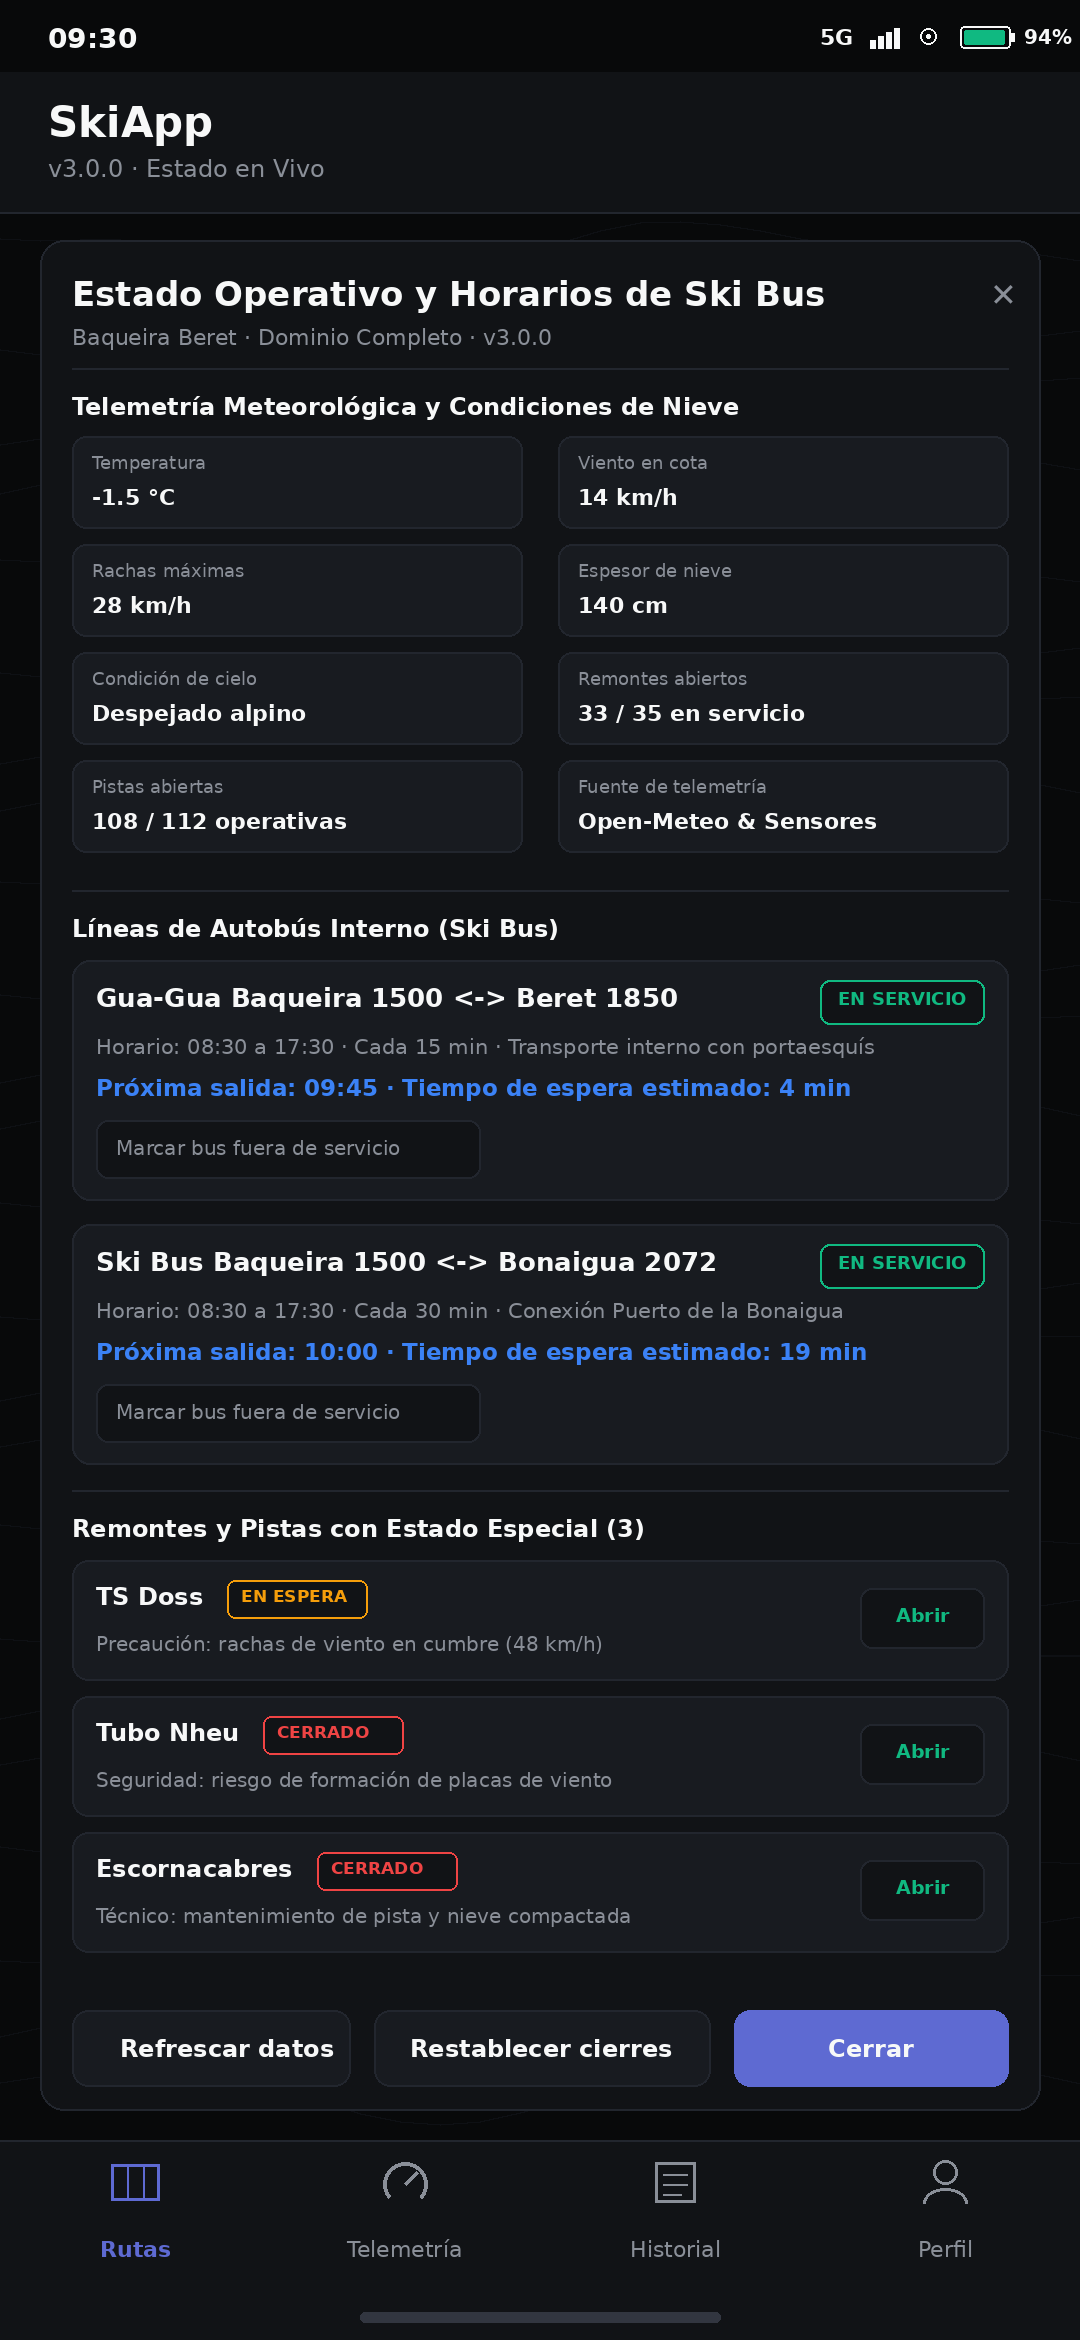
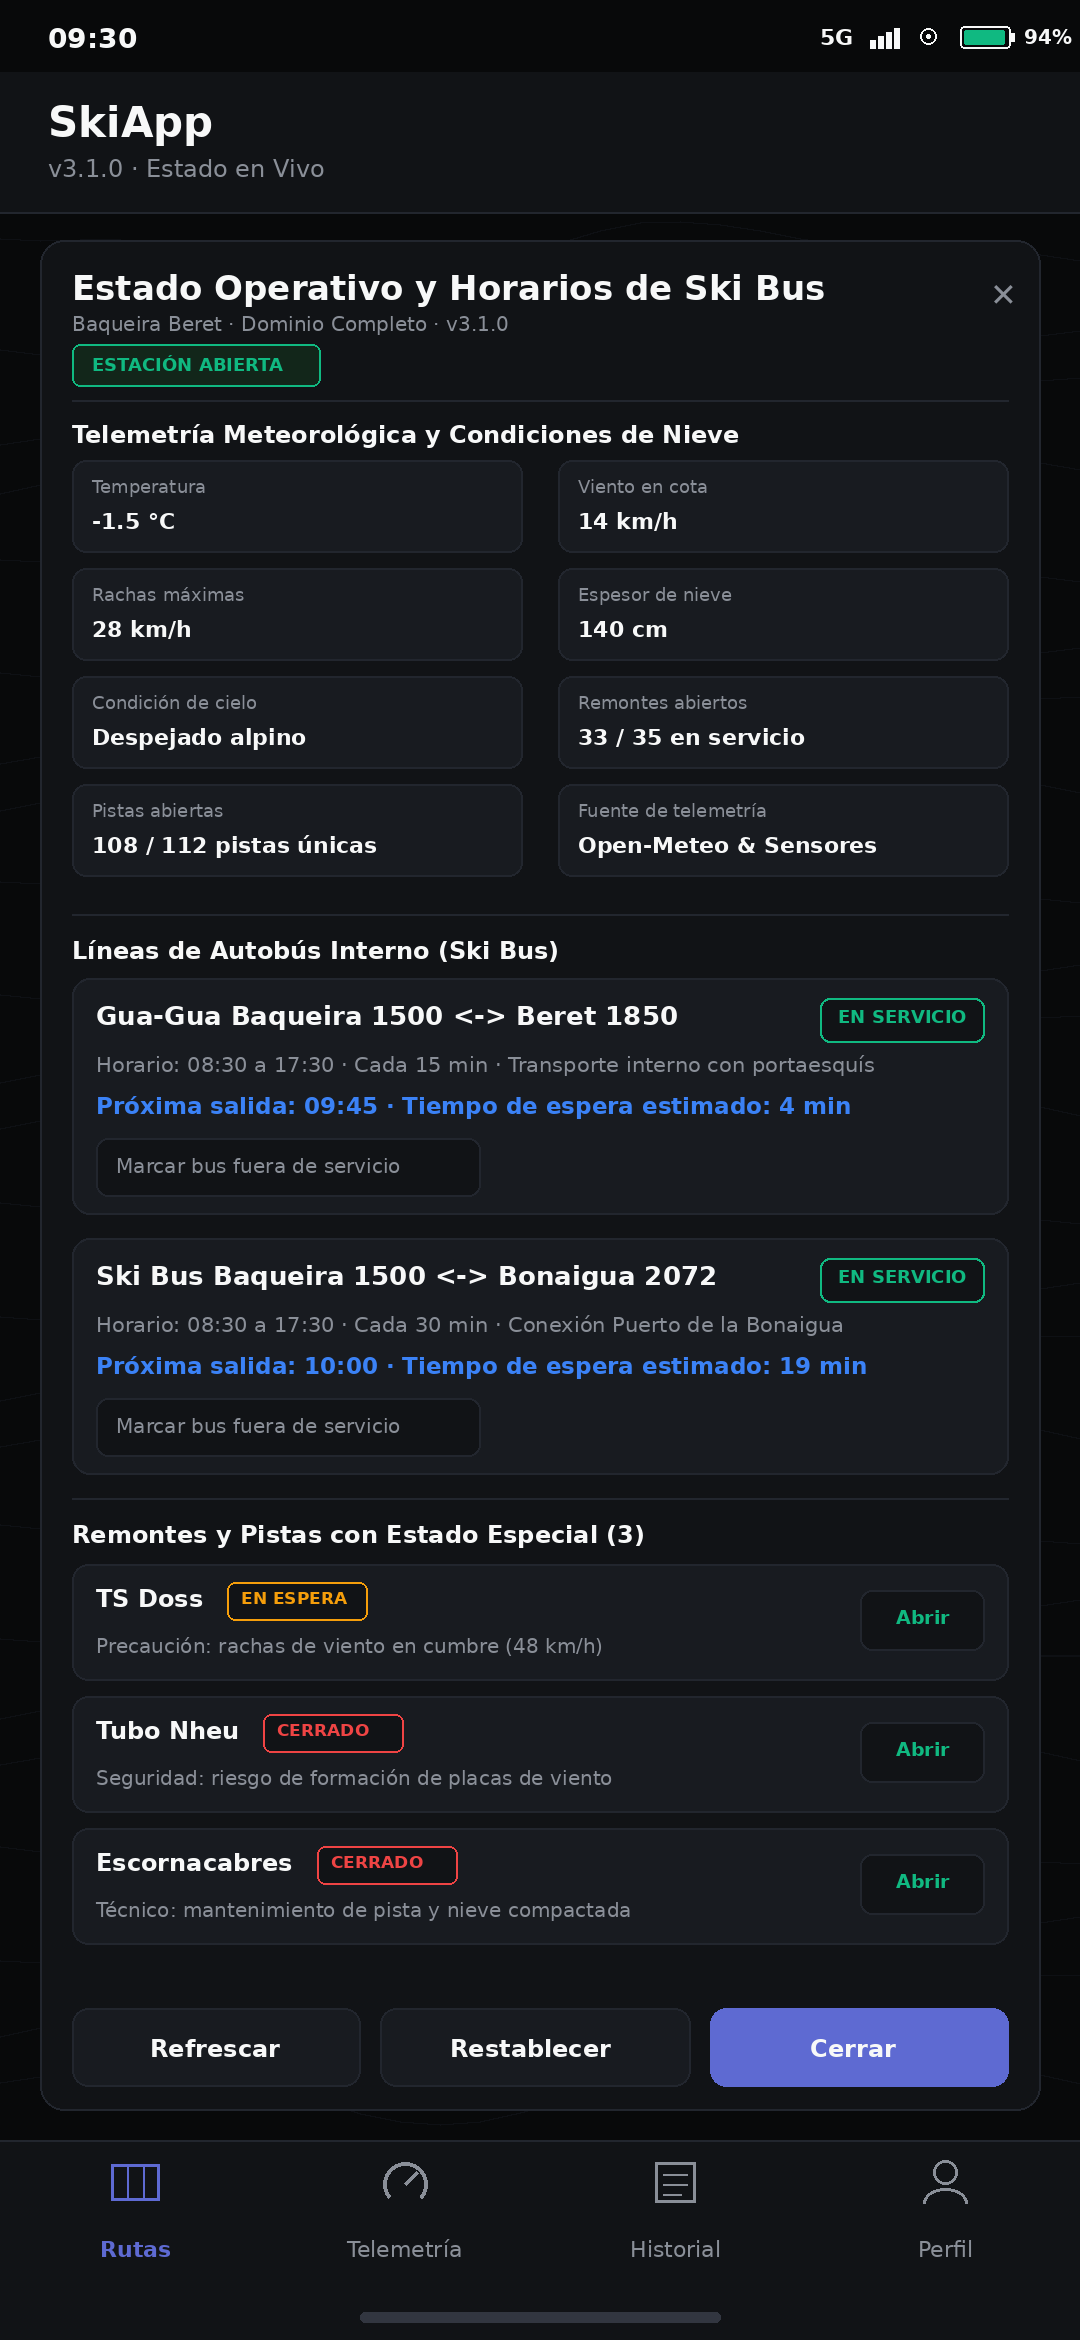
docs: update screenshots and download links for v3.1.0

diff --git a/README.md b/README.md
@@ -224,20 +224,20 @@ SkiApp 3.0.0 introduce el nuevo sistema de diseño **Alpine Technical Precision*
 ## Guía de Instalación y Actualización OTA
 
 ### Instalación Inicial en Android
-1. **Descarga el APK:** Abre la [página de Latest Release](https://github.com/RHerAle/SkiApp-Releases/releases/latest) y pulsa en `SkiApp-v3.0.0.apk`.
+1. **Descarga el APK:** Abre la [página de Latest Release](https://github.com/RHerAle/SkiApp-Releases/releases/latest) y pulsa en `SkiApp-v3.1.0.apk`.
 2. **Autoriza la instalación:** Si Android solicita permiso para instalar aplicaciones desconocidas, actívalo en los ajustes de seguridad.
 3. **Instala y Abre:** Completa la instalación y accede a todas las funciones sin conexión a internet.
 
-### Descarga e Instalación en iPhone / iOS (`SkiApp-iOS-v3.0.0.ipa`)
-El paquete nativo para iOS (`SkiApp-iOS-v3.0.0.ipa`) ofrece compatibilidad con iOS 16.0 o superior en iPhone. Puedes instalar el paquete mediante herramientas estándar de sideloading:
+### Descarga e Instalación en iPhone / iOS (`SkiApp-iOS-v3.1.0.ipa`)
+El paquete nativo para iOS (`SkiApp-iOS-v3.1.0.ipa`) ofrece compatibilidad con iOS 16.0 o superior en iPhone. Puedes instalar el paquete mediante herramientas estándar de sideloading:
 
 1. **AltStore / SideStore:**
-   - Descarga `SkiApp-iOS-v3.0.0.ipa` desde [GitHub Releases](https://github.com/RHerAle/SkiApp-Releases/releases/tag/v3.0.0).
+   - Descarga `SkiApp-iOS-v3.1.0.ipa` desde [GitHub Releases](https://github.com/RHerAle/SkiApp-Releases/releases/tag/v3.1.0).
    - En AltStore o SideStore, pulsa el botón `+` en la pestaña **My Apps** y selecciona el archivo `.ipa`.
    - O bien, desde SkiApp en la pestaña **Perfil**, pulsa **Instalar con AltStore** o **SideStore** para iniciar la instalación de forma directa.
 2. **Sideloadly:**
    - Conecta tu iPhone al ordenador por cable o red local Wi-Fi.
-   - Abre Sideloadly, arrastra `SkiApp-iOS-v3.0.0.ipa`, introduce tu Apple ID y pulsa **Start**.
+   - Abre Sideloadly, arrastra `SkiApp-iOS-v3.1.0.ipa`, introduce tu Apple ID y pulsa **Start**.
 3. **TrollStore:**
    - Si tu dispositivo dispone de TrollStore, abre el enlace directo del `.ipa` y pulsa **Install** para una instalación permanente sin caducidad de firma de 7 días.
 4. **Activación de Modo Desarrollador en iOS 16+:**
@@ -354,20 +354,20 @@ SkiApp 3.0.0 introduces the **Alpine Technical Precision** design system and alg
 ## Installation & In-App Update Guide
 
 ### Initial Android Installation
-1. **Download APK:** Open the [Latest Release Page](https://github.com/RHerAle/SkiApp-Releases/releases/latest) and tap `SkiApp-v3.0.0.apk`.
+1. **Download APK:** Open the [Latest Release Page](https://github.com/RHerAle/SkiApp-Releases/releases/latest) and tap `SkiApp-v3.1.0.apk`.
 2. **Authorize Unknown Sources:** If prompted by Android, grant permission to install from your browser or file manager.
 3. **Launch & Ski:** Open SkiApp and select your favorite resort.
 
-### iPhone / iOS Installation Guide (`SkiApp-iOS-v3.0.0.ipa`)
-The native iOS package (`SkiApp-iOS-v3.0.0.ipa`) targets iOS 16.0 or later on iPhone. Install it via standard sideloading tools:
+### iPhone / iOS Installation Guide (`SkiApp-iOS-v3.1.0.ipa`)
+The native iOS package (`SkiApp-iOS-v3.1.0.ipa`) targets iOS 16.0 or later on iPhone. Install it via standard sideloading tools:
 
 1. **AltStore / SideStore:**
-   - Download `SkiApp-iOS-v3.0.0.ipa` from [GitHub Releases](https://github.com/RHerAle/SkiApp-Releases/releases/tag/v3.0.0).
+   - Download `SkiApp-iOS-v3.1.0.ipa` from [GitHub Releases](https://github.com/RHerAle/SkiApp-Releases/releases/tag/v3.1.0).
    - In AltStore or SideStore, tap `+` in **My Apps** and select the `.ipa` file.
    - Or open the **Profile** tab in SkiApp and tap **AltStore** or **SideStore** for one-tap install.
 2. **Sideloadly:**
    - Connect your iPhone to your PC or Mac via cable or local Wi-Fi.
-   - Open Sideloadly, drag and drop `SkiApp-iOS-v3.0.0.ipa`, enter your Apple ID, and click **Start**.
+   - Open Sideloadly, drag and drop `SkiApp-iOS-v3.1.0.ipa`, enter your Apple ID, and click **Start**.
 3. **TrollStore:**
    - On TrollStore-compatible devices, open the direct `.ipa` link and tap **Install** with zero 7-day resigning limits.
 4. **Developer Mode on iOS 16+:**
